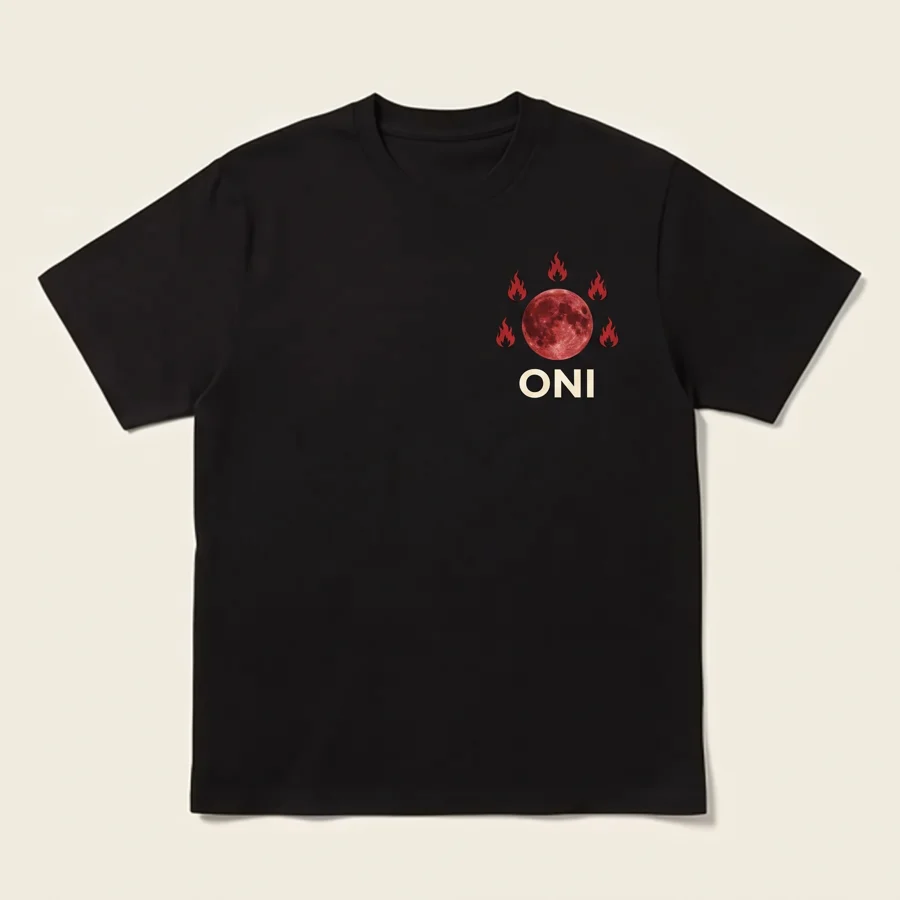
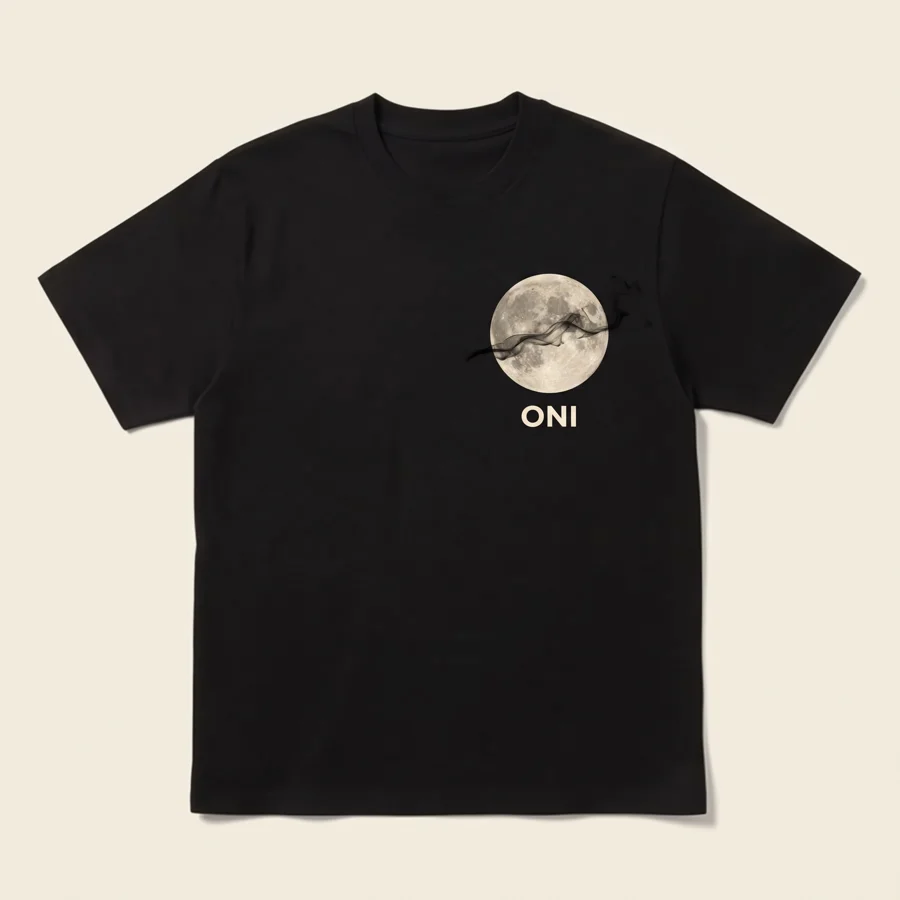
ONI: shadow specters instead of oni, a real moon instead of the flame sun

Changed region(s): [[0.5289, 0.28, 0.6844, 0.4978]]

diff --git a/app.js b/app.js
@@ -56,15 +56,15 @@ const RONIN_NFTS=[
   {f:'summit',t:'The Summit',jt:'頂',r:'Legendary',e:28,p:4.8,fx:'snow',bg:'above-clouds',d:'The top of the mountain, the wind, and no one to tell. He climbed it for himself.'},
   {f:'winter-wind',t:'Winter Wind',jt:'冬の風',r:'Common',e:200,p:0.6,fx:'snow',bg:'stillness',d:'Sun on the snow, flowers pushing through. Winter never wins for good.'},
 ];
-/* the night world: seven demons, one per deadly sin. Every fall of the ronin had one of these names. */
+/* the night world: seven shadow specters, one per deadly sin. Every fall of the ronin had one of these names. */
 const ONI_NFTS=[
-  {f:'oni-pride',t:'Pride',jt:'傲慢',r:'Legendary',e:30,p:5,wide:1,wpos:'50% 24%',fx:'clouds',bg:'oni-castle',d:'He stands on the highest roof and looks down on everyone. He has never once looked up.'},
-  {f:'oni-wrath',t:'Wrath',jt:'憤怒',r:'Legendary',e:33,p:4.5,fx:'embers',bg:'oni-hellgate',d:'Every insult he ever heard, still burning. The fire keeps him warm and burns everything he touches.'},
-  {f:'oni-lust',t:'Lust',jt:'色欲',r:'Epic',e:100,p:1.8,fx:'petals',bg:'oni-lake',d:'She waits on the bridge with a smile and a fan. Whoever crosses toward her never reaches the other side.'},
-  {f:'oni-greed',t:'Greed',jt:'強欲',r:'Epic',e:100,p:1.7,fx:'dust',bg:'oni-hellgate',d:'A mountain of gold and he is still counting. Enough is a word he never learned.'},
-  {f:'oni-envy',t:'Envy',jt:'嫉妬',r:'Rare',e:150,p:1,fx:'dust',bg:'oni-lake',d:'Every mask on his wall is a face he wanted instead of his own.'},
-  {f:'oni-gluttony',t:'Gluttony',jt:'暴食',r:'Rare',e:150,p:0.9,fx:'embers',bg:'oni-hellgate',d:'The feast never ends and he is never full. The hunger is the only thing he really eats.'},
-  {f:'oni-sloth',t:'Sloth',jt:'怠惰',r:'Common',e:200,p:0.5,fx:'clouds',bg:'oni-castle',d:'He will start tomorrow. He has been saying it for a thousand years.'},
+  {f:'spec-pride',t:'Pride',jt:'傲慢',r:'Legendary',e:30,p:5,wide:1,wpos:'50% 24%',fx:'clouds',bg:'oni-castle',d:'A shadow with a cracked crown on the highest roof. It looks down on everyone and has never once looked up.'},
+  {f:'spec-wrath',t:'Wrath',jt:'憤怒',r:'Legendary',e:33,p:4.5,fx:'embers',bg:'oni-hellgate',d:'Smoke that never stops smouldering. Every insult it ever heard is still burning at its edges.'},
+  {f:'spec-lust',t:'Lust',jt:'色欲',r:'Epic',e:100,p:1.8,fx:'petals',bg:'oni-lake',d:'A shadow waits on the bridge behind a fan. Whoever crosses toward it never reaches the other side.'},
+  {f:'spec-greed',t:'Greed',jt:'強欲',r:'Epic',e:100,p:1.7,fx:'dust',bg:'oni-hellgate',d:'Long fingers of smoke over a pile of gold, still counting. Enough is a word it never learned.'},
+  {f:'spec-envy',t:'Envy',jt:'嫉妬',r:'Rare',e:150,p:1,fx:'dust',bg:'oni-lake',d:'It has no face of its own, only the masks of everyone it wanted to be.'},
+  {f:'spec-gluttony',t:'Gluttony',jt:'暴食',r:'Rare',e:150,p:0.9,fx:'embers',bg:'oni-hellgate',d:'The feast never ends and the shadow never fills. The hunger is the only thing it really eats.'},
+  {f:'spec-sloth',t:'Sloth',jt:'怠惰',r:'Common',e:200,p:0.5,fx:'clouds',bg:'oni-castle',d:'It will start tomorrow. It has been saying so for a thousand years, melting slowly off the roof.'},
 ];
 const NFTS=ONI?ONI_NFTS:RONIN_NFTS;
 NFTS.forEach((n,i)=>n.ch=ROMAN(i+1));
@@ -132,19 +132,20 @@ function drawSky(){
   for(let i=0;i<w*h*.002;i++){const x=r()*w,y=hill(x)+r()*(h-hill(x))*.7;c.globalAlpha=.3+r()*.4;c.fillRect(x,y,1.2,2.4+r()*3);}
   c.globalAlpha=1; c.strokeStyle=SKY.line; c.lineWidth=2.2; c.beginPath(); for(let x=0;x<=w;x+=4)(x?c.lineTo:c.moveTo).call(c,x,hill(x)+Math.sin(x*.21)*1.2); c.stroke();
 }
-function moonMarkup(){
-  const r=rng(7); let d='';
-  for(let k=0;k<7;k++){
-    const a=k/7*Math.PI*2-Math.PI/2, L=84+r()*6, base=46, sp=.2, wig=(k%2?1:-1)*10;
-    const P=(rad,ang)=>[Math.cos(ang)*rad,Math.sin(ang)*rad];
-    const [x1,y1]=P(base,a-sp),[x2,y2]=P(base,a+sp),[tx,ty]=P(L,a+.12);
-    const [m1x,m1y]=P((base+L)/2,a-sp*.4),[m2x,m2y]=P((base+L)/2,a+sp*.6);
-    d+=`M${x1.toFixed(1)},${y1.toFixed(1)} Q${(m1x+wig*Math.cos(a+1.57)).toFixed(1)},${(m1y+wig*Math.sin(a+1.57)).toFixed(1)} ${tx.toFixed(1)},${ty.toFixed(1)} Q${(m2x-wig*Math.cos(a+1.57)).toFixed(1)},${(m2y-wig*Math.sin(a+1.57)).toFixed(1)} ${x2.toFixed(1)},${y2.toFixed(1)}Z `;
-  }
-  let sp=''; for(let i=0;i<=200;i++){const t=i/200,a=-t*Math.PI*2*2.6,rr=2+t*32;sp+=(i?'L':'M')+(Math.cos(a)*rr).toFixed(1)+','+(Math.sin(a)*rr).toFixed(1);}
-  return `<path d="${d}" fill="#c4152c" stroke="#05050a" stroke-width="3" stroke-linejoin="round"/>
-    <circle r="47" fill="#05050a"/><circle r="42" fill="#efe6cf"/>
-    <path d="${sp}" fill="none" stroke="#c4152c" stroke-width="6.5" stroke-linecap="round"/>`;
+function moonMarkup(){   // a real full moon: pale disc, soft maria, a few craters, no rays
+  const r=rng(11); let cr='';
+  for(let k=0;k<14;k++){ const a=r()*6.283, d=Math.sqrt(r())*50, x=Math.cos(a)*d, y=Math.sin(a)*d, rr=2+r()*(k<4?7:3.5);
+    cr+=`<circle cx="${x.toFixed(1)}" cy="${y.toFixed(1)}" r="${rr.toFixed(1)}" fill="#8f8a7c" opacity=".38"/><circle cx="${(x-rr*.25).toFixed(1)}" cy="${(y-rr*.25).toFixed(1)}" r="${(rr*.7).toFixed(1)}" fill="#f6f1e3" opacity=".35"/>`; }
+  return `<defs><radialGradient id="moonG" cx="38%" cy="34%" r="75%"><stop offset="0" stop-color="#fffbf1"/><stop offset=".55" stop-color="#ebe4d1"/><stop offset="1" stop-color="#b8b19f"/></radialGradient>
+    <clipPath id="moonC"><circle r="62"/></clipPath></defs>
+    <circle r="62" fill="url(#moonG)"/>
+    <g clip-path="url(#moonC)" fill="#9c9686" opacity=".42">
+      <path d="M-34,-30 C-20,-42 2,-36 6,-22 C10,-8 -6,-2 -18,-6 C-30,-10 -44,-18 -34,-30Z"/>
+      <path d="M8,-6 C22,-14 38,-6 36,8 C34,22 18,26 8,18 C0,12 -2,2 8,-6Z"/>
+      <path d="M-26,10 C-16,6 -6,14 -10,26 C-14,36 -30,36 -36,26 C-40,18 -34,12 -26,10Z"/>
+      <path d="M18,30 C26,28 32,36 28,44 C24,50 14,48 12,40 C10,34 12,32 18,30Z"/></g>
+    <g clip-path="url(#moonC)">${cr}</g>
+    <circle r="62" fill="none" stroke="#05050a" stroke-width="2.5" opacity=".55"/>`;
 }
 function sunMarkup(){ if(ONI)return moonMarkup();
   const r=rng(3); let d='';
@@ -724,7 +725,7 @@ function capSVG(cap){
 // prices are a proposal in USD; change them here
 const ONI_MERCH=[   // the night line: black, bone and blood
   {id:'oni-cap',n:'Oni Cap',cat:'Headwear',p:35,d:'Unstructured black cap, 鬼 embroidered in blood red.',c:['#111015','#c4152c']},
-  {id:'oni-tee',n:'Seven Sins Tee',cat:'Apparel',p:40,d:'Heavyweight black cotton, the blood moon on the chest.',c:['#111015']},
+  {id:'oni-tee',n:'Seven Sins Tee',cat:'Apparel',p:40,d:'Heavyweight black cotton, a real full moon crossed by smoke.',c:['#111015']},
   {id:'oni-hoodie',n:'鬼 Hoodie',cat:'Apparel',p:80,d:'Heavy black fleece, red brush kanji on the chest.',c:['#111015']},
 ];
 const DAY_MERCH=[   // v = colorways: [hex, name, image]; products without v show their colors as static dots
@@ -778,7 +779,7 @@ const MERCH=ONI?ONI_MERCH:DAY_MERCH;
     parts.forEach((p,i)=>{
       p.l=Math.min(p.max,p.l+.004); p.x+=p.vx; p.y+=p.vy;
       if(p.k==='mist'){ const g=c.createRadialGradient(p.x,p.y,0,p.x,p.y,p.r); g.addColorStop(0,`rgba(255,255,255,${p.l})`); g.addColorStop(1,'rgba(255,255,255,0)'); c.fillStyle=g; c.beginPath(); c.arc(p.x,p.y,p.r,0,6.283); c.fill(); if(p.y<H*.1)parts[i]=spawn(); }
-      else if(p.k==='mote'){ p.w+=.04; c.globalAlpha=p.l*(.5+Math.sin(p.w)*.5); c.fillStyle=ONI?'#ff8a4c':'#fff6d6'; c.shadowColor=ONI?'#ff3d1f':'#ffe9a8'; c.shadowBlur=10; c.beginPath(); c.arc(p.x+Math.sin(p.w)*3,p.y,p.s,0,6.283); c.fill(); c.shadowBlur=0; c.globalAlpha=1; if(p.y<0)parts[i]=spawn(); }
+      else if(p.k==='mote'){ p.w+=.04; c.globalAlpha=p.l*(.5+Math.sin(p.w)*.5); c.fillStyle=ONI?'#dfe6ff':'#fff6d6'; c.shadowColor=ONI?'#8fa6ff':'#ffe9a8'; c.shadowBlur=10; c.beginPath(); c.arc(p.x+Math.sin(p.w)*3,p.y,p.s,0,6.283); c.fill(); c.shadowBlur=0; c.globalAlpha=1; if(p.y<0)parts[i]=spawn(); }
       else { p.w+=.03; p.a+=.02; c.save(); c.translate(p.x+Math.sin(p.w)*8,p.y); c.rotate(p.a); c.scale(1,.55+Math.sin(p.w*2)*.3); c.fillStyle=ONI?'#d4182f':'#ffd3e2'; c.globalAlpha=p.l;
         c.beginPath(); c.moveTo(-p.s,0); c.quadraticCurveTo(0,-p.s*.75,p.s,0); c.quadraticCurveTo(0,p.s*.75,-p.s,0); c.fill(); c.restore(); if(p.y>H+20)parts[i]=spawn(); }
     });

diff --git a/oni/index.html b/oni/index.html
@@ -16,7 +16,7 @@
 <link rel="preconnect" href="https://fonts.googleapis.com">
 <link rel="preconnect" href="https://fonts.gstatic.com" crossorigin>
 <link href="https://fonts.googleapis.com/css2?family=Archivo:ital,wght@0,400;0,600;0,800;0,900;1,800&family=Silkscreen&family=Shippori+Mincho:wght@600;800&family=Old+Standard+TT&display=swap" rel="stylesheet">
-<link rel="stylesheet" href="../styles.css?v=1791013375">
+<link rel="stylesheet" href="../styles.css?v=1791040316">
 </head>
 <body>
 
@@ -78,7 +78,7 @@
 </div></section>
 
 <section class="falls" id="subscribe">
-  <div class="fl-bg" id="flBg"><img src="../img/escenas/oni-gathering.webp" alt="The seven demons gathered under a blood moon"></div>
+  <div class="fl-bg" id="flBg"><img src="../img/escenas/spec-gathering.webp" alt="The seven shadow specters gathered under the full moon"></div>
   <canvas class="fl-fx" id="flFx"></canvas>
   <div class="fl-fog"></div>
   <div class="wrap fl-in">
@@ -102,7 +102,7 @@
   </div>
 </div></footer>
 
-<script src="../config.js?v=1791013375"></script>
-<script src="../app.js?v=1791013375"></script>
+<script src="../config.js?v=1791040316"></script>
+<script src="../app.js?v=1791040316"></script>
 </body>
 </html>

diff --git a/oni/draw.html b/oni/draw.html
@@ -16,7 +16,7 @@
 <link rel="preconnect" href="https://fonts.googleapis.com">
 <link rel="preconnect" href="https://fonts.gstatic.com" crossorigin>
 <link href="https://fonts.googleapis.com/css2?family=Archivo:ital,wght@0,400;0,600;0,800;0,900;1,800&family=Silkscreen&family=Shippori+Mincho:wght@600;800&family=Old+Standard+TT&display=swap" rel="stylesheet">
-<link rel="stylesheet" href="../styles.css?v=1791013375">
+<link rel="stylesheet" href="../styles.css?v=1791040316">
 </head>
 <body class="dark-top dw-body">
 
@@ -64,7 +64,7 @@
   </div>
 </div></footer>
 
-<script src="../config.js?v=1791013375"></script>
-<script src="../app.js?v=1791013375"></script>
+<script src="../config.js?v=1791040316"></script>
+<script src="../app.js?v=1791040316"></script>
 </body>
 </html>

diff --git a/oni/profile.html b/oni/profile.html
@@ -16,7 +16,7 @@
 <link rel="preconnect" href="https://fonts.googleapis.com">
 <link rel="preconnect" href="https://fonts.gstatic.com" crossorigin>
 <link href="https://fonts.googleapis.com/css2?family=Archivo:ital,wght@0,400;0,600;0,800;0,900;1,800&family=Silkscreen&family=Shippori+Mincho:wght@600;800&family=Old+Standard+TT&display=swap" rel="stylesheet">
-<link rel="stylesheet" href="../styles.css?v=1791013375">
+<link rel="stylesheet" href="../styles.css?v=1791040316">
 </head>
 <body class="dark-top pf-page">
 
@@ -34,7 +34,7 @@
   </div>
 </div></footer>
 
-<script src="../config.js?v=1791013375"></script>
-<script src="../app.js?v=1791013375"></script>
+<script src="../config.js?v=1791040316"></script>
+<script src="../app.js?v=1791040316"></script>
 </body>
 </html>

diff --git a/oni/cards.html b/oni/cards.html
@@ -16,7 +16,7 @@
 <link rel="preconnect" href="https://fonts.googleapis.com">
 <link rel="preconnect" href="https://fonts.gstatic.com" crossorigin>
 <link href="https://fonts.googleapis.com/css2?family=Archivo:ital,wght@0,400;0,600;0,800;0,900;1,800&family=Silkscreen&family=Shippori+Mincho:wght@600;800&family=Old+Standard+TT&display=swap" rel="stylesheet">
-<link rel="stylesheet" href="../styles.css?v=1791013375">
+<link rel="stylesheet" href="../styles.css?v=1791040316">
 </head>
 <body class="dark-top">
 
@@ -39,7 +39,7 @@
   </div>
 </div></footer>
 
-<script src="../config.js?v=1791013375"></script>
-<script src="../app.js?v=1791013375"></script>
+<script src="../config.js?v=1791040316"></script>
+<script src="../app.js?v=1791040316"></script>
 </body>
 </html>

diff --git a/draw.html b/draw.html
@@ -16,7 +16,7 @@
 <link rel="preconnect" href="https://fonts.googleapis.com">
 <link rel="preconnect" href="https://fonts.gstatic.com" crossorigin>
 <link href="https://fonts.googleapis.com/css2?family=Archivo:ital,wght@0,400;0,600;0,800;0,900;1,800&family=Silkscreen&family=Shippori+Mincho:wght@600;800&family=Old+Standard+TT&display=swap" rel="stylesheet">
-<link rel="stylesheet" href="styles.css?v=1791013375">
+<link rel="stylesheet" href="styles.css?v=1791040316">
 </head>
 <body class="dark-top dw-body">
 
@@ -64,7 +64,7 @@
   </div>
 </div></footer>
 
-<script src="config.js?v=1791013375"></script>
-<script src="app.js?v=1791013375"></script>
+<script src="config.js?v=1791040316"></script>
+<script src="app.js?v=1791040316"></script>
 </body>
 </html>

diff --git a/profile.html b/profile.html
@@ -16,7 +16,7 @@
 <link rel="preconnect" href="https://fonts.googleapis.com">
 <link rel="preconnect" href="https://fonts.gstatic.com" crossorigin>
 <link href="https://fonts.googleapis.com/css2?family=Archivo:ital,wght@0,400;0,600;0,800;0,900;1,800&family=Silkscreen&family=Shippori+Mincho:wght@600;800&family=Old+Standard+TT&display=swap" rel="stylesheet">
-<link rel="stylesheet" href="styles.css?v=1791013375">
+<link rel="stylesheet" href="styles.css?v=1791040316">
 </head>
 <body class="dark-top pf-page">
 
@@ -34,7 +34,7 @@
   </div>
 </div></footer>
 
-<script src="config.js?v=1791013375"></script>
-<script src="app.js?v=1791013375"></script>
+<script src="config.js?v=1791040316"></script>
+<script src="app.js?v=1791040316"></script>
 </body>
 </html>

diff --git a/coin.html b/coin.html
@@ -16,7 +16,7 @@
 <link rel="preconnect" href="https://fonts.googleapis.com">
 <link rel="preconnect" href="https://fonts.gstatic.com" crossorigin>
 <link href="https://fonts.googleapis.com/css2?family=Archivo:ital,wght@0,400;0,600;0,800;0,900;1,800&family=Silkscreen&family=Shippori+Mincho:wght@600;800&family=Old+Standard+TT&display=swap" rel="stylesheet">
-<link rel="stylesheet" href="styles.css?v=1791013375">
+<link rel="stylesheet" href="styles.css?v=1791040316">
 </head>
 <body class="coin-page">
 
@@ -99,7 +99,7 @@
   </div>
 </div></footer>
 
-<script src="config.js?v=1791013375"></script>
-<script src="app.js?v=1791013375"></script>
+<script src="config.js?v=1791040316"></script>
+<script src="app.js?v=1791040316"></script>
 </body>
 </html>

diff --git a/cards.html b/cards.html
@@ -16,7 +16,7 @@
 <link rel="preconnect" href="https://fonts.googleapis.com">
 <link rel="preconnect" href="https://fonts.gstatic.com" crossorigin>
 <link href="https://fonts.googleapis.com/css2?family=Archivo:ital,wght@0,400;0,600;0,800;0,900;1,800&family=Silkscreen&family=Shippori+Mincho:wght@600;800&family=Old+Standard+TT&display=swap" rel="stylesheet">
-<link rel="stylesheet" href="styles.css?v=1791013375">
+<link rel="stylesheet" href="styles.css?v=1791040316">
 </head>
 <body class="dark-top">
 
@@ -39,7 +39,7 @@
   </div>
 </div></footer>
 
-<script src="config.js?v=1791013375"></script>
-<script src="app.js?v=1791013375"></script>
+<script src="config.js?v=1791040316"></script>
+<script src="app.js?v=1791040316"></script>
 </body>
 </html>

diff --git a/index.html b/index.html
@@ -16,7 +16,7 @@
 <link rel="preconnect" href="https://fonts.googleapis.com">
 <link rel="preconnect" href="https://fonts.gstatic.com" crossorigin>
 <link href="https://fonts.googleapis.com/css2?family=Archivo:ital,wght@0,400;0,600;0,800;0,900;1,800&family=Silkscreen&family=Shippori+Mincho:wght@600;800&family=Old+Standard+TT&display=swap" rel="stylesheet">
-<link rel="stylesheet" href="styles.css?v=1791013375">
+<link rel="stylesheet" href="styles.css?v=1791040316">
 </head>
 <body>
 
@@ -102,7 +102,7 @@
   </div>
 </div></footer>
 
-<script src="config.js?v=1791013375"></script>
-<script src="app.js?v=1791013375"></script>
+<script src="config.js?v=1791040316"></script>
+<script src="app.js?v=1791040316"></script>
 </body>
 </html>

diff --git a/styles.css b/styles.css
@@ -1492,3 +1492,6 @@ html[data-world=oni] .pf-gate .pf-k{color:#c4152c}
 html[data-world=oni] .pf-out{background:#1a1726;color:var(--ink)}
 html[data-world=oni] .pf-empty{background:#12101cdd;border-color:#efe6cf44}
 html[data-world=oni] .pf-alt{color:#ff8a96}
+/* the night sky has a real moon: no spin, a cold halo */
+html[data-world=oni] .sun{animation:none;filter:drop-shadow(0 0 26px #fffbf088) drop-shadow(0 0 90px #c9d4ff44)}
+html[data-world=oni] .mote{background:#e3e9ff;box-shadow:0 0 10px 2px #9fb3ff99}

diff --git a/make_oni.py b/make_oni.py
@@ -35,7 +35,7 @@ INDEX = [
     ('<h2>Wear the path.</h2>', '<h2>Wear the sin.</h2>'),
     ("Spot a RONIN piece in the street: that's another ronin.", "Spot an ONI piece at night: that's another demon."),
     ('img/escenas/falls.webp" alt="A ronin meditating by a pond, facing a legendary waterfall"',
-     'img/escenas/oni-gathering.webp" alt="The seven demons gathered under a blood moon"'),
+     'img/escenas/spec-gathering.webp" alt="The seven shadow specters gathered under the full moon"'),
     ('<div class="eyebrow jp">静寂 · stillness</div>', '<div class="eyebrow jp">百鬼夜行 · night parade</div>'),
     ('<h2>Sit with the path.</h2>', '<h2>Join the night parade.</h2>'),
     ("Before the mint opens, the ronin waits by the falls. Leave your email and we'll call you once, when it's time.",
